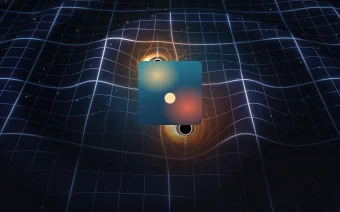
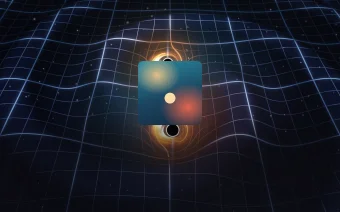
made gravitational waves visualizer respond more to music

diff --git a/src/components/player/visualizers/gl/gravitationalWaves.ts b/src/components/player/visualizers/gl/gravitationalWaves.ts
@@ -5,10 +5,12 @@
  * spiral wave the pair radiates. Rays near a hole march the steep funnel; the rest take a bracketed solve.
  * Dark-only: the scene has no light look.
  *
- * The pace and the wave follow the absolute loudness through a soft spring: a near-silent passage barely
- * turns over a faint wave, a loud one whips round under a tall wave. The song's own recent energy only trims
- * the pace. The bass raises the wave and deepens the wells, the mids add pace and disc turbulence, the highs
- * spark the photon rings and shimmer the jets. A beat sends a crest out on the wave, sized by the beat's
+ * The absolute loudness sets the wave and the floor of the pace: a near-silent passage barely turns over a
+ * faint wave. Above that floor the pace swings with the intensity (the loudness plus the recent kick weight)
+ * against its own slow mean, through a soft spring, so a build or a drop whips the pair round even when the
+ * loudness is pinned high and a calmer passage lets it settle. A strong kick pushes the orbit on through an
+ * eased envelope. The bass raises the wave and deepens the wells, the mids add pace and disc turbulence, the
+ * highs spark the photon rings and shimmer the jets. A beat sends a crest out on the wave, sized by the beat's
  * weight, and a knot up each jet; a surge sends one great wave and lurches the pair, a cut lets the turning
  * and the waves sink. Calm and paused hold a fixed slow orbit with no reaction.
  *
@@ -32,24 +34,39 @@ import type { VisualSignal } from "../../../../state/player/visualSignal";
 // Orbit pace at a pace of 1, rad/s, and the share of it Calm and paused cruise at.
 export const OMEGA = 2.4;
 export const CALM_PACE = 0.6;
-// The pace as a multiple of OMEGA: the near-silent floor, and the loudest at Balanced and at Lively.
+// The pace as a multiple of OMEGA: the near-silent floor, and the pace at full loudness while the music holds
+// its own recent level, at Balanced and at Lively.
 export const PACE_QUIET = 0.12;
-const PACE_TOP_BALANCED = 1.45;
-export const PACE_TOP_LIVELY = 2.0;
-// The drive above which the Lively top applies.
+const PACE_BODY_BALANCED = 1.1;
+export const PACE_BODY_LIVELY = 1.3;
+// The drive above which the Lively body and swing apply.
 const LIVELY_DRIVE = 1.3;
+// How far the share of the pace above the floor swings with the intensity against its recent level:
+// [calmer, building] as multiples of it, at Balanced and at Lively.
+const SWING_BALANCED: readonly [number, number] = [0.6, 1.8];
+const SWING_LIVELY: readonly [number, number] = [0.5, 2.0];
+// The pace eases into PACE_MAX above PACE_KNEE. The wave arms pass a point at twice the orbit's rate, so the
+// cap keeps them under three a second.
+const PACE_KNEE = 2.2;
+export const PACE_MAX = 3.1;
 // The loudness the loudness curve runs between, and its exponent: it stays low through a quiet intro.
 const LOUD_LO = 0.1;
 const LOUD_HI = 0.9;
 const LOUD_CURVE = 1.5;
-// The energy measure, quick and slow, in seconds, and the gap between them that reaches the end of its trim.
-const FAST_TAU = 1;
-const SLOW_TAU = 17;
-const REL_SPAN = 0.1;
-// Share of the pace the song's relative energy trims either way.
-export const REL_TRIM = 0.1;
+// Intensity: the loudness plus this share of the recent kick weight, which a peak-follow holds over KICK_TAU.
+const KICK_SHARE = 0.15;
+const KICK_TAU = 0.8;
+// The intensity measure, quick and slow, in seconds, and the gap between them that reaches the end of the swing.
+const FAST_TAU = 0.8;
+const SLOW_TAU = 10;
+const REL_SPAN = 0.12;
+// The beat push: extra pace per unit of beat weight, the time constant of each of its two rise stages and its
+// fall, in seconds.
+export const PUSH_PACE = 0.5;
+const PUSH_RISE = 0.05;
+const PUSH_FALL = 0.25;
 // Extra pace per unit of the mid envelope.
-export const MID_PACE = 0.22;
+const MID_PACE = 0.12;
 // Extra pace per unit of surge, easing out over LURCH_TAU seconds.
 export const LURCH_PACE = 0.7;
 const LURCH_TAU = 1.5;
@@ -378,6 +395,13 @@ export interface GravitationalWavesState {
   primed: boolean;
   speed: number;
   vel: number;
+  // The peak-followed kick weight, and the beat push's held target, first ease and envelope.
+  kick: number;
+  pushHold: number;
+  pushIn: number;
+  push: number;
+  // The orbit's pace this step, as a multiple of OMEGA.
+  pace: number;
   // The share of the loudness curve reached, 0..1, and the surge lurch and cut sink envelopes.
   lv: number;
   lurch: number;
@@ -406,8 +430,13 @@ export function createGravitationalWavesState(): GravitationalWavesState {
     fast: 0,
     slow: 0,
     primed: false,
-    speed: 1,
+    speed: CALM_PACE,
     vel: 0,
+    kick: 0,
+    pushHold: 0,
+    pushIn: 0,
+    push: 0,
+    pace: CALM_PACE,
     lv: 0,
     lurch: 0,
     sink: 0,
@@ -427,9 +456,17 @@ export function createGravitationalWavesState(): GravitationalWavesState {
   };
 }
 
+/** A pace eased into PACE_MAX above PACE_KNEE, with no kink at the knee. */
+export function paceKnee(p: number): number {
+  if (p <= PACE_KNEE) return p;
+  const room = PACE_MAX - PACE_KNEE;
+  return PACE_KNEE + room * Math.tanh((p - PACE_KNEE) / room);
+}
+
 /**
  * Advances the state by dt. Under Calm and while paused the motion envelopes and beats are ignored, so the
  * pair cruises at a fixed slow pace over a low wave; only the eased level, through `shine`, sets the light.
+ * The pace spring eases it into and out of that cruise.
  */
 export function stepGravitationalWaves(st: GravitationalWavesState, s: VisualSignal, dt: number, playing: boolean): void {
   const live = playing && s.drive > 0;
@@ -441,27 +478,48 @@ export function stepGravitationalWaves(st: GravitationalWavesState, s: VisualSig
   const weight = live ? s.beatWeight : 0;
   const surge = live ? s.surge : 0;
   st.clock += dt;
-  // Pace and wave follow the absolute loudness; the song's own recent energy only trims the pace.
+  // The absolute loudness sets the floor and the wave; the intensity against its own recent level swings the
+  // pace above the floor, so a build speeds the pair up even when the loudness is pinned high.
+  st.kick = Math.max(drive > 0 ? weight / drive : 0, st.kick * Math.exp(-dt / KICK_TAU));
+  const intensity = s.loudness + KICK_SHARE * st.kick;
   if (!st.primed) {
-    st.fast = st.slow = s.rms;
+    st.fast = st.slow = intensity;
     st.primed = true;
   }
-  st.fast = easeEnvelope(st.fast, s.rms, dt, FAST_TAU);
-  st.slow = easeEnvelope(st.slow, s.rms, dt, SLOW_TAU);
+  // Paused, the loudness sinks to the resting arch; the measures hold, so a resume does not read as a build.
+  if (playing) {
+    st.fast = easeEnvelope(st.fast, intensity, dt, FAST_TAU);
+    st.slow = easeEnvelope(st.slow, intensity, dt, SLOW_TAU);
+  }
   const rel = Math.max(-1, Math.min(1, (st.fast - st.slow) / REL_SPAN));
   st.lv = drive === 0 ? 0 : Math.pow(clamp01((s.loudness - LOUD_LO) / (LOUD_HI - LOUD_LO)), LOUD_CURVE);
   if (live && s.cut > 0) st.sink = 1;
   st.sink = Math.max(0, st.sink - dt / SINK_SECS);
   st.lurch = Math.max(surge, st.lurch * Math.exp(-dt / LURCH_TAU));
-  const top = drive > LIVELY_DRIVE ? PACE_TOP_LIVELY : PACE_TOP_BALANCED;
-  let target = drive === 0 ? 1 : PACE_QUIET + (top - PACE_QUIET) * st.lv;
-  target *= (1 + REL_TRIM * rel * st.lv) * (1 + MID_PACE * midM) * (1 + LURCH_PACE * st.lurch) * (1 - 0.5 * st.sink);
+  const lively = drive > LIVELY_DRIVE;
+  const body = lively ? PACE_BODY_LIVELY : PACE_BODY_BALANCED;
+  const [calmer, building] = lively ? SWING_LIVELY : SWING_BALANCED;
+  const swing = rel < 0 ? 1 + (1 - calmer) * rel : 1 + (building - 1) * rel;
+  // Calm and paused aim the spring at the cruise, so leaving or entering them eases the pace instead of stepping it.
+  const target =
+    drive === 0
+      ? CALM_PACE
+      : (PACE_QUIET + (body - PACE_QUIET) * st.lv * swing) *
+        (1 + MID_PACE * midM) *
+        (1 + LURCH_PACE * st.lurch) *
+        (1 - 0.5 * st.sink);
   // The spring speeds up firmly, coasts down, and sinks faster after a cut; a drop is felt within about half a second.
   const up = target > st.speed;
   const [stiff, damp] = st.sink > 0 ? [9, 6] : up ? [6, 4.9] : [3.5, 3.7];
   st.vel += ((target - st.speed) * stiff - st.vel * damp) * dt;
   st.speed = Math.max(0.05, st.speed + st.vel * dt);
-  const omega = OMEGA * (drive === 0 ? CALM_PACE : st.speed);
+  // A kick pushes the orbit on, and the push eases out over PUSH_FALL.
+  st.pushHold = Math.max(weight, st.pushHold * Math.exp(-dt / PUSH_FALL));
+  // Two eases in a row start the push gently, so the pace never steps.
+  st.pushIn = easeEnvelope(st.pushIn, st.pushHold, dt, PUSH_RISE);
+  st.push = easeEnvelope(st.push, st.pushIn, dt, PUSH_RISE);
+  st.pace = paceKnee(st.speed * (1 + PUSH_PACE * st.push * (1 - st.sink)));
+  const omega = OMEGA * st.pace;
   st.phi += omega * dt;
   st.radius = easeEnvelope(st.radius, 1 - INSPIRAL * st.lv * Math.min(1, drive), dt, 0.8);
   const waveTarget = drive === 0 ? WAVE_BASE : WAVE_QUIET + (WAVE_LOUD - WAVE_QUIET) * st.lv + WAVE_BASS * bassM;

diff --git a/src/components/player/visualizers/gl/gravitationalWaves.test.ts b/src/components/player/visualizers/gl/gravitationalWaves.test.ts
@@ -6,11 +6,11 @@ import {
   CALM_PACE,
   CREST_LIFE,
   LURCH_PACE,
-  MID_PACE,
   OMEGA,
+  PACE_BODY_LIVELY,
+  PACE_MAX,
   PACE_QUIET,
-  PACE_TOP_LIVELY,
-  REL_TRIM,
+  PUSH_PACE,
   CREST_SUM_MAX,
   SURGE_MAX,
   WAVE_BASS,
@@ -20,6 +20,7 @@ import {
   WELL_BASE,
   WELL_BASS,
   createGravitationalWavesState,
+  paceKnee,
   stepGravitationalWaves,
   type GravitationalWavesState,
 } from "./gravitationalWaves";
@@ -153,9 +154,8 @@ describe("stepGravitationalWaves", () => {
 
   it("keeps the wave, the wells and the crests inside what the step and shader assume", () => {
     const st = createGravitationalWavesState();
-    // The pace never passes the top of the Lively curve with the mids at the cap and the quick energy at its trim.
-    const topSpeed = PACE_TOP_LIVELY * (1 + REL_TRIM) * (1 + MID_PACE * LIVELY);
-    const reach = 1.1 + ((2 * OMEGA * topSpeed) / WAVE_K) * CREST_LIFE;
+    const reach = 1.1 + ((2 * OMEGA * PACE_MAX) / WAVE_K) * CREST_LIFE;
+    let sawPace = 0;
     let sawWave = 0;
     let sawWell = 0;
     for (let i = 0; i < 3600; i++) {
@@ -164,7 +164,8 @@ describe("stepGravitationalWaves", () => {
       expect(st.waveA).toBeLessThanOrEqual(WAVE_LOUD + WAVE_BASS * LIVELY);
       expect(st.well).toBeGreaterThanOrEqual(WELL_BASE);
       expect(st.well).toBeLessThanOrEqual(WELL_BASE + WELL_BASS * LIVELY);
-      expect(st.speed).toBeLessThanOrEqual(topSpeed);
+      expect(st.pace).toBeLessThanOrEqual(PACE_MAX);
+      sawPace = Math.max(sawPace, st.pace);
       for (const k of st.crests) {
         expect(k.age).toBeLessThan(CREST_LIFE);
         expect(k.r).toBeGreaterThanOrEqual(0.9 * 1.1);
@@ -176,6 +177,72 @@ describe("stepGravitationalWaves", () => {
     // The bounds are reached, so they are not vacuous.
     expect(sawWave).toBeGreaterThan(WAVE_LOUD + 0.05);
     expect(sawWell).toBeGreaterThan(WELL_BASE + 0.05);
+    expect(sawPace).toBeGreaterThan(0.95 * PACE_MAX);
+  });
+
+  it("eases the pace into PACE_MAX, so the wave arms pass a point under three times a second", () => {
+    let prev = 0;
+    for (let p = 0; p < 20; p += 0.01) {
+      const k = paceKnee(p);
+      expect(k).toBeGreaterThanOrEqual(prev);
+      expect(k).toBeLessThanOrEqual(PACE_MAX);
+      expect(k - prev).toBeLessThanOrEqual(0.01 + 1e-9);
+      prev = k;
+    }
+    expect(paceKnee(1)).toBe(1);
+    // A Lively drop with surges at their cap on top of full-weight kicks: two arms turning at twice the orbit
+    // pass a point twice per turn of the pattern, so the arm rate is 2 * omega / (2 pi) a second.
+    const st = createGravitationalWavesState();
+    let fastest = 0;
+    for (let i = 0; i < 3600; i++) {
+      const phi = st.phi;
+      stepGravitationalWaves(st, { ...drop(i), surge: i >= 600 && i % 300 === 0 ? 1 : 0 }, DT, true);
+      const omega = (st.phi - phi) / DT;
+      expect(st.pace).toBeLessThanOrEqual(PACE_MAX);
+      expect((2 * omega) / (2 * Math.PI)).toBeLessThan(3);
+      fastest = Math.max(fastest, omega);
+    }
+    expect(fastest).toBeGreaterThan(0.95 * OMEGA * PACE_MAX);
+  });
+
+  it("resumes at the pace it paused on, with no swing from the paused loudness", () => {
+    const st = createGravitationalWavesState();
+    const loud = sig({ loudness: 0.85, drive: 1 });
+    for (let i = 0; i < 40 * 60; i++) stepGravitationalWaves(st, loud, DT, true);
+    const before = st.pace;
+    // Paused, the follower's loudness sinks toward the resting arch.
+    for (let i = 0; i < 25 * 60; i++) stepGravitationalWaves(st, sig({ loudness: 0.3, drive: 1 }), DT, false);
+    let peak = 0;
+    for (let i = 0; i < 10 * 60; i++) {
+      stepGravitationalWaves(st, loud, DT, true);
+      peak = Math.max(peak, st.pace);
+    }
+    expect(peak).toBeLessThan(1.02 * before);
+    expect(Math.abs(st.pace - before)).toBeLessThan(0.01 * before);
+  });
+
+  it("eases the pace across a reactivity switch mid-song instead of stepping it", () => {
+    const loud = (drive: number) => sig({ loudness: 0.85, drive });
+    const cases: [number, number][] = [
+      [0, LIVELY],
+      [1, LIVELY],
+      [LIVELY, 0],
+    ];
+    for (const [from, to] of cases) {
+      const st = createGravitationalWavesState();
+      for (let i = 0; i < 30 * 60; i++) stepGravitationalWaves(st, loud(from), DT, true);
+      const steady = createGravitationalWavesState();
+      for (let i = 0; i < 30 * 60; i++) stepGravitationalWaves(steady, loud(to), DT, true);
+      expect(Math.abs(steady.pace - st.pace)).toBeGreaterThan(0.15);
+      let prev = st.pace;
+      for (let i = 0; i < 5 * 60; i++) {
+        stepGravitationalWaves(st, loud(to), DT, true);
+        expect(Math.abs(st.pace - prev)).toBeLessThan(i === 0 ? 0.01 : 0.04);
+        prev = st.pace;
+      }
+      // The switch does reach the new pace.
+      expect(Math.abs(st.pace - steady.pace)).toBeLessThan(0.01);
+    }
   });
 
   it("keeps the tallest crest on the loudest wave inside the surface solver's bracket", () => {
@@ -220,7 +287,7 @@ describe("stepGravitationalWaves", () => {
     expect(st.crests.length).toBeGreaterThan(0);
     expect(st.speed).toBeGreaterThan(1.3);
     // Beats and motion stop at near-silence; a crest lives CREST_LIFE.
-    const steady = sig({ rms: st.slow, loudness: 0.05 });
+    const steady = sig({ loudness: 0.05 });
     const SETTLE = 40;
     for (let i = 0; i < SETTLE * 60; i++) stepGravitationalWaves(st, steady, DT, true);
     expect(st.crests).toHaveLength(0);
@@ -243,11 +310,53 @@ describe("stepGravitationalWaves", () => {
     expect(intro.omega).toBeGreaterThan(silent.omega);
     expect(intro.omega).toBeLessThan(0.5 * OMEGA);
     expect(mid.omega).toBeGreaterThan(intro.omega);
-    expect(loud.omega).toBeGreaterThanOrEqual(OMEGA * PACE_TOP_LIVELY * 0.99);
+    // A steady loud passage sits at the body pace: the swing reads the music against its own level.
+    expect(loud.omega).toBeCloseTo(OMEGA * PACE_BODY_LIVELY, 2);
     expect(loud.omega / silent.omega).toBeGreaterThan(10);
     expect(silent.st.waveA).toBeCloseTo(WAVE_QUIET, 3);
     expect(loud.st.waveA).toBeGreaterThanOrEqual(WAVE_LOUD * 0.99);
     expect(loud.st.waveA / silent.st.waveA).toBeGreaterThan(5);
+  });
+
+  it("speeds up as a loud passage builds and settles once the build holds, without a beat", () => {
+    const st = createGravitationalWavesState();
+    const run = (loudness: number, seconds: number) => {
+      let omega = 0;
+      for (let i = 0; i < seconds * 60; i++) {
+        const phi = st.phi;
+        stepGravitationalWaves(st, sig({ loudness }), DT, true);
+        omega = (st.phi - phi) / DT;
+      }
+      return omega;
+    };
+    const verse = run(0.8, 40);
+    const build = run(0.88, 2);
+    expect(build).toBeGreaterThan(1.5 * verse);
+    const held = run(0.88, 60);
+    expect(held).toBeLessThan(0.75 * build);
+    // A calmer stretch at the same loudness band turns slower than the verse did.
+    expect(run(0.74, 3)).toBeLessThan(0.75 * verse);
+  });
+
+  it("pushes the orbit on a strong kick and eases the push out", () => {
+    const st = createGravitationalWavesState();
+    const loud = sig({ loudness: 0.85 });
+    for (let i = 0; i < 40 * 60; i++) stepGravitationalWaves(st, loud, DT, true);
+    const rest = st.pace;
+    let peak = rest;
+    let prev = rest;
+    for (let i = 0; i < 90; i++) {
+      const over = i === 0 ? { beat: 1.5, beatWeight: LIVELY } : { beatWeight: i < HELD ? LIVELY : 0 };
+      stepGravitationalWaves(st, sig({ loudness: 0.85, ...over }), DT, true);
+      // Eased in: the push starts gently and then ramps, never a step.
+      expect(Math.abs(st.pace - prev)).toBeLessThan((i === 0 ? 0.08 : 0.15) * rest);
+      prev = st.pace;
+      if (i < 20) peak = Math.max(peak, st.pace);
+    }
+    expect(peak).toBeGreaterThan(rest * (1 + 0.5 * PUSH_PACE * LIVELY));
+    // The kick also lifts the intensity for a moment, so the pace is back at rest a few seconds later.
+    for (let i = 0; i < 6 * 60; i++) stepGravitationalWaves(st, loud, DT, true);
+    expect(Math.abs(st.pace - rest)).toBeLessThan(0.05 * rest);
   });
 
   it("sizes a crest by the beat's weight and launches none for a beat in a quiet passage", () => {
